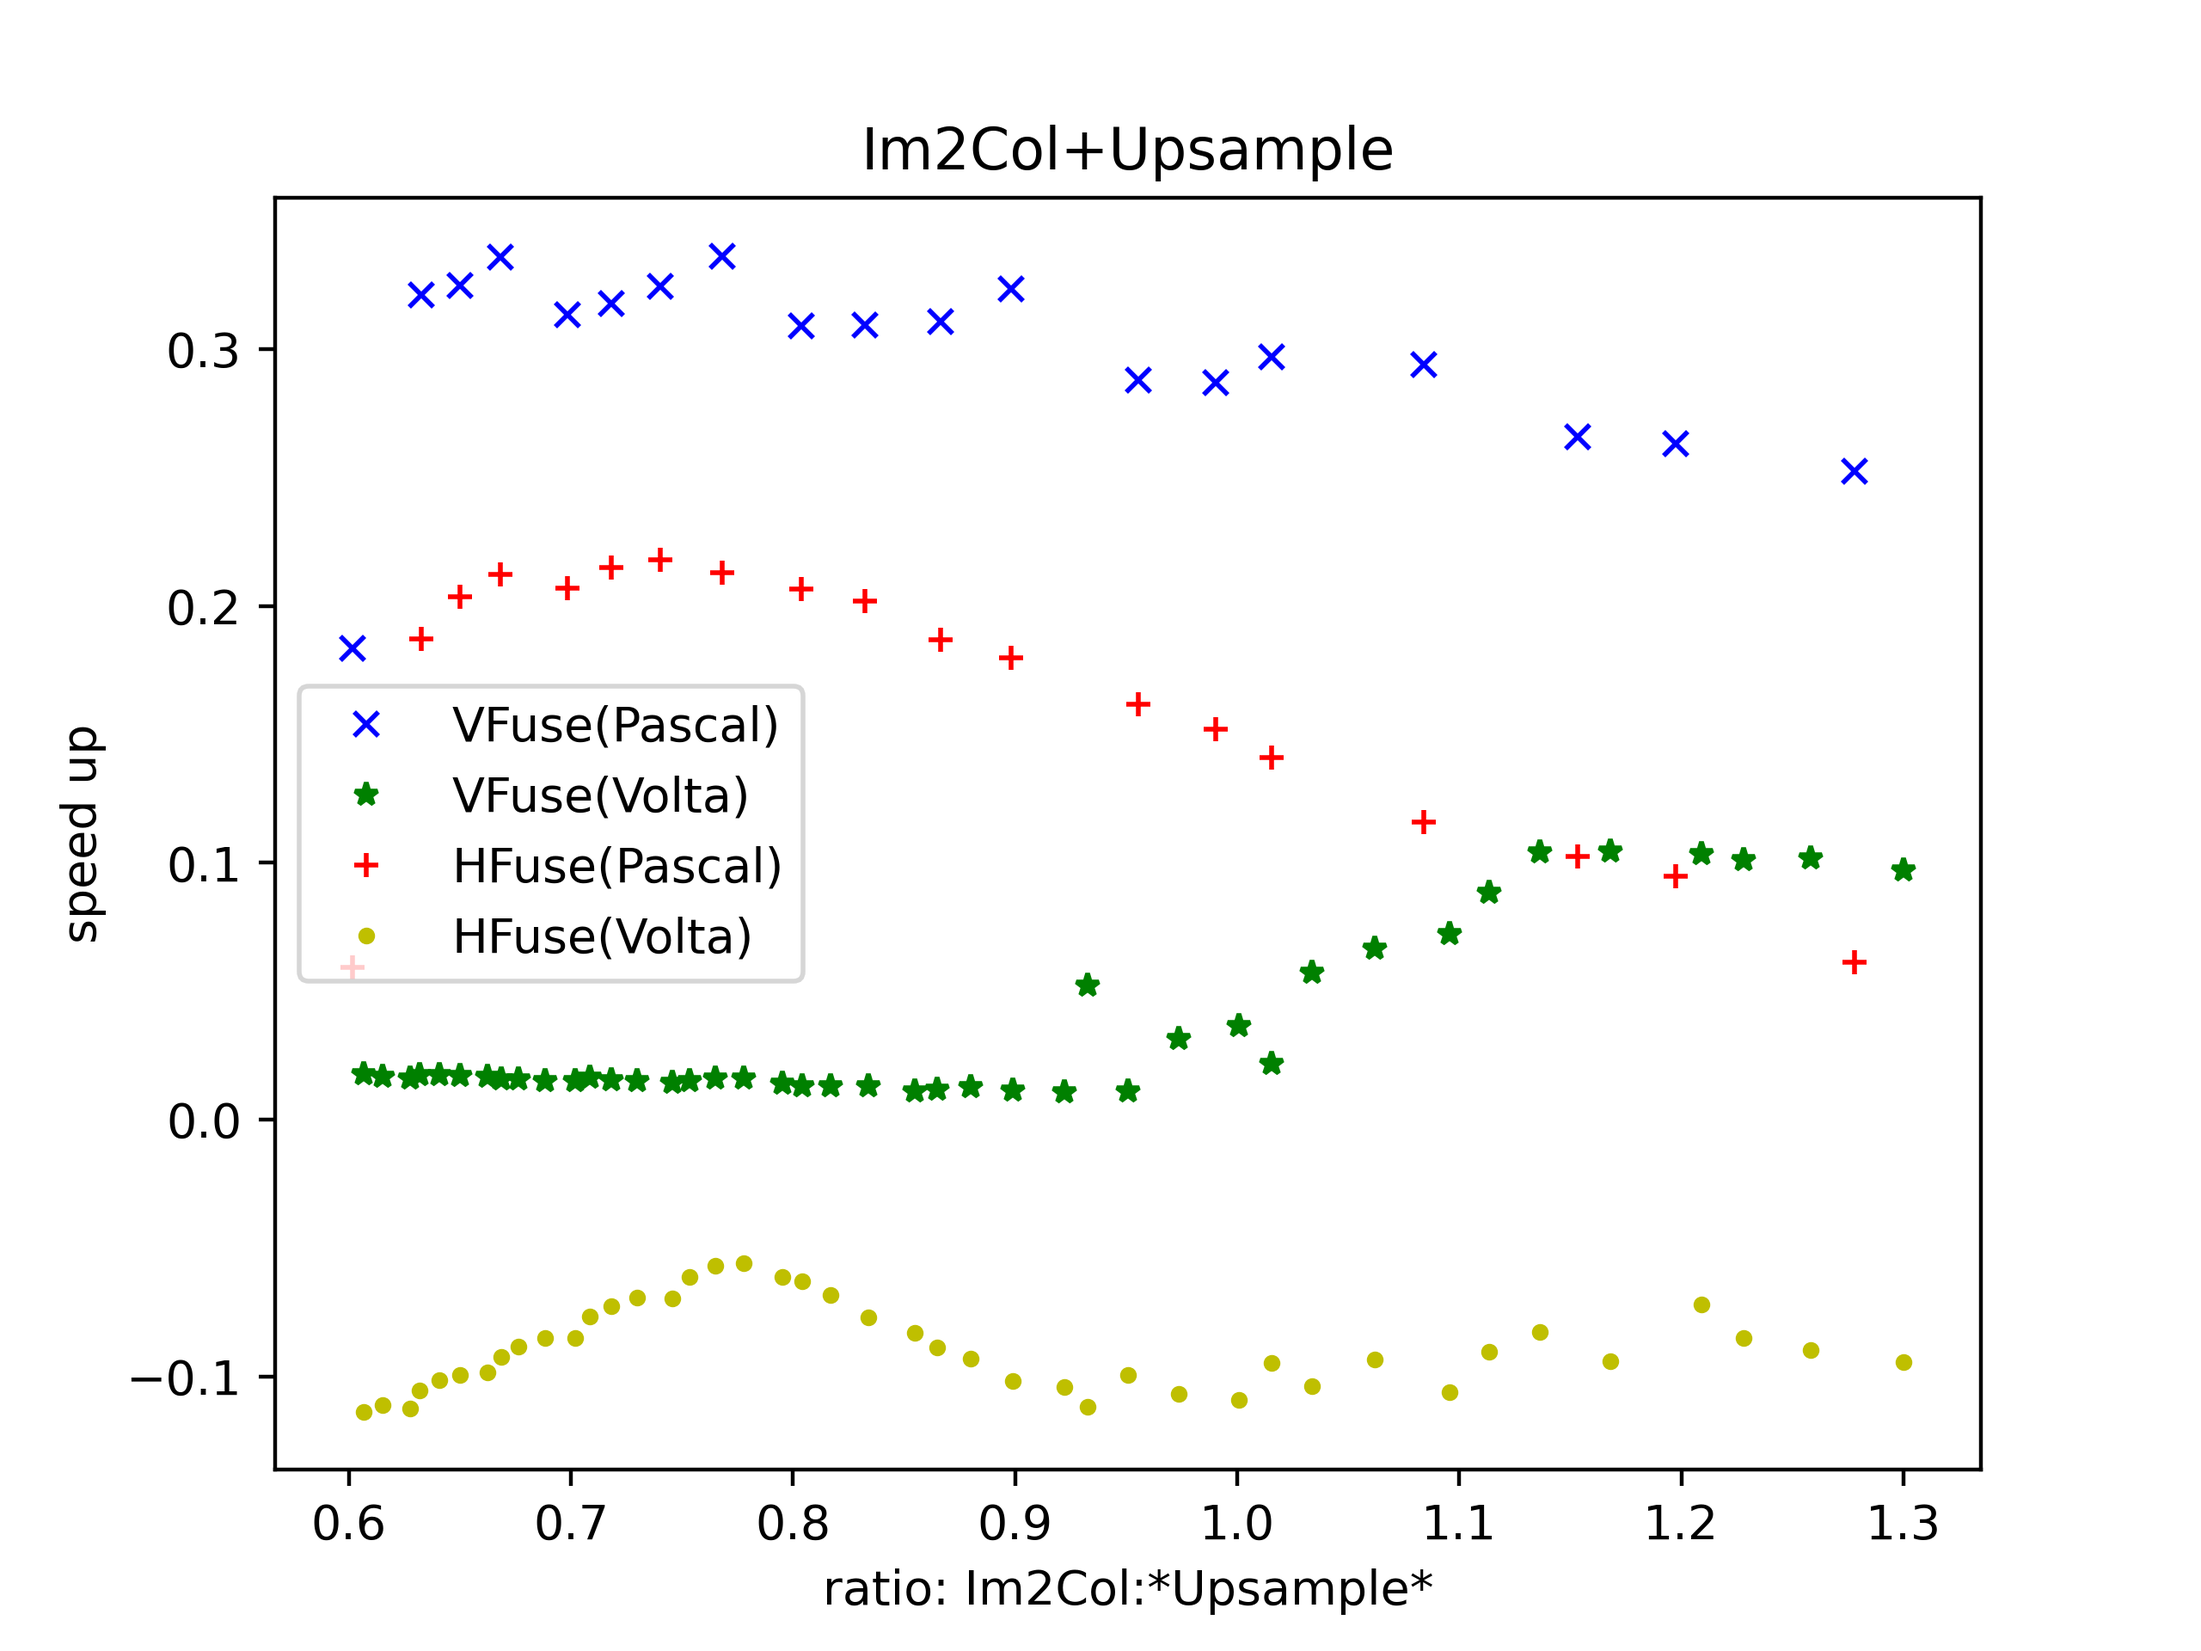
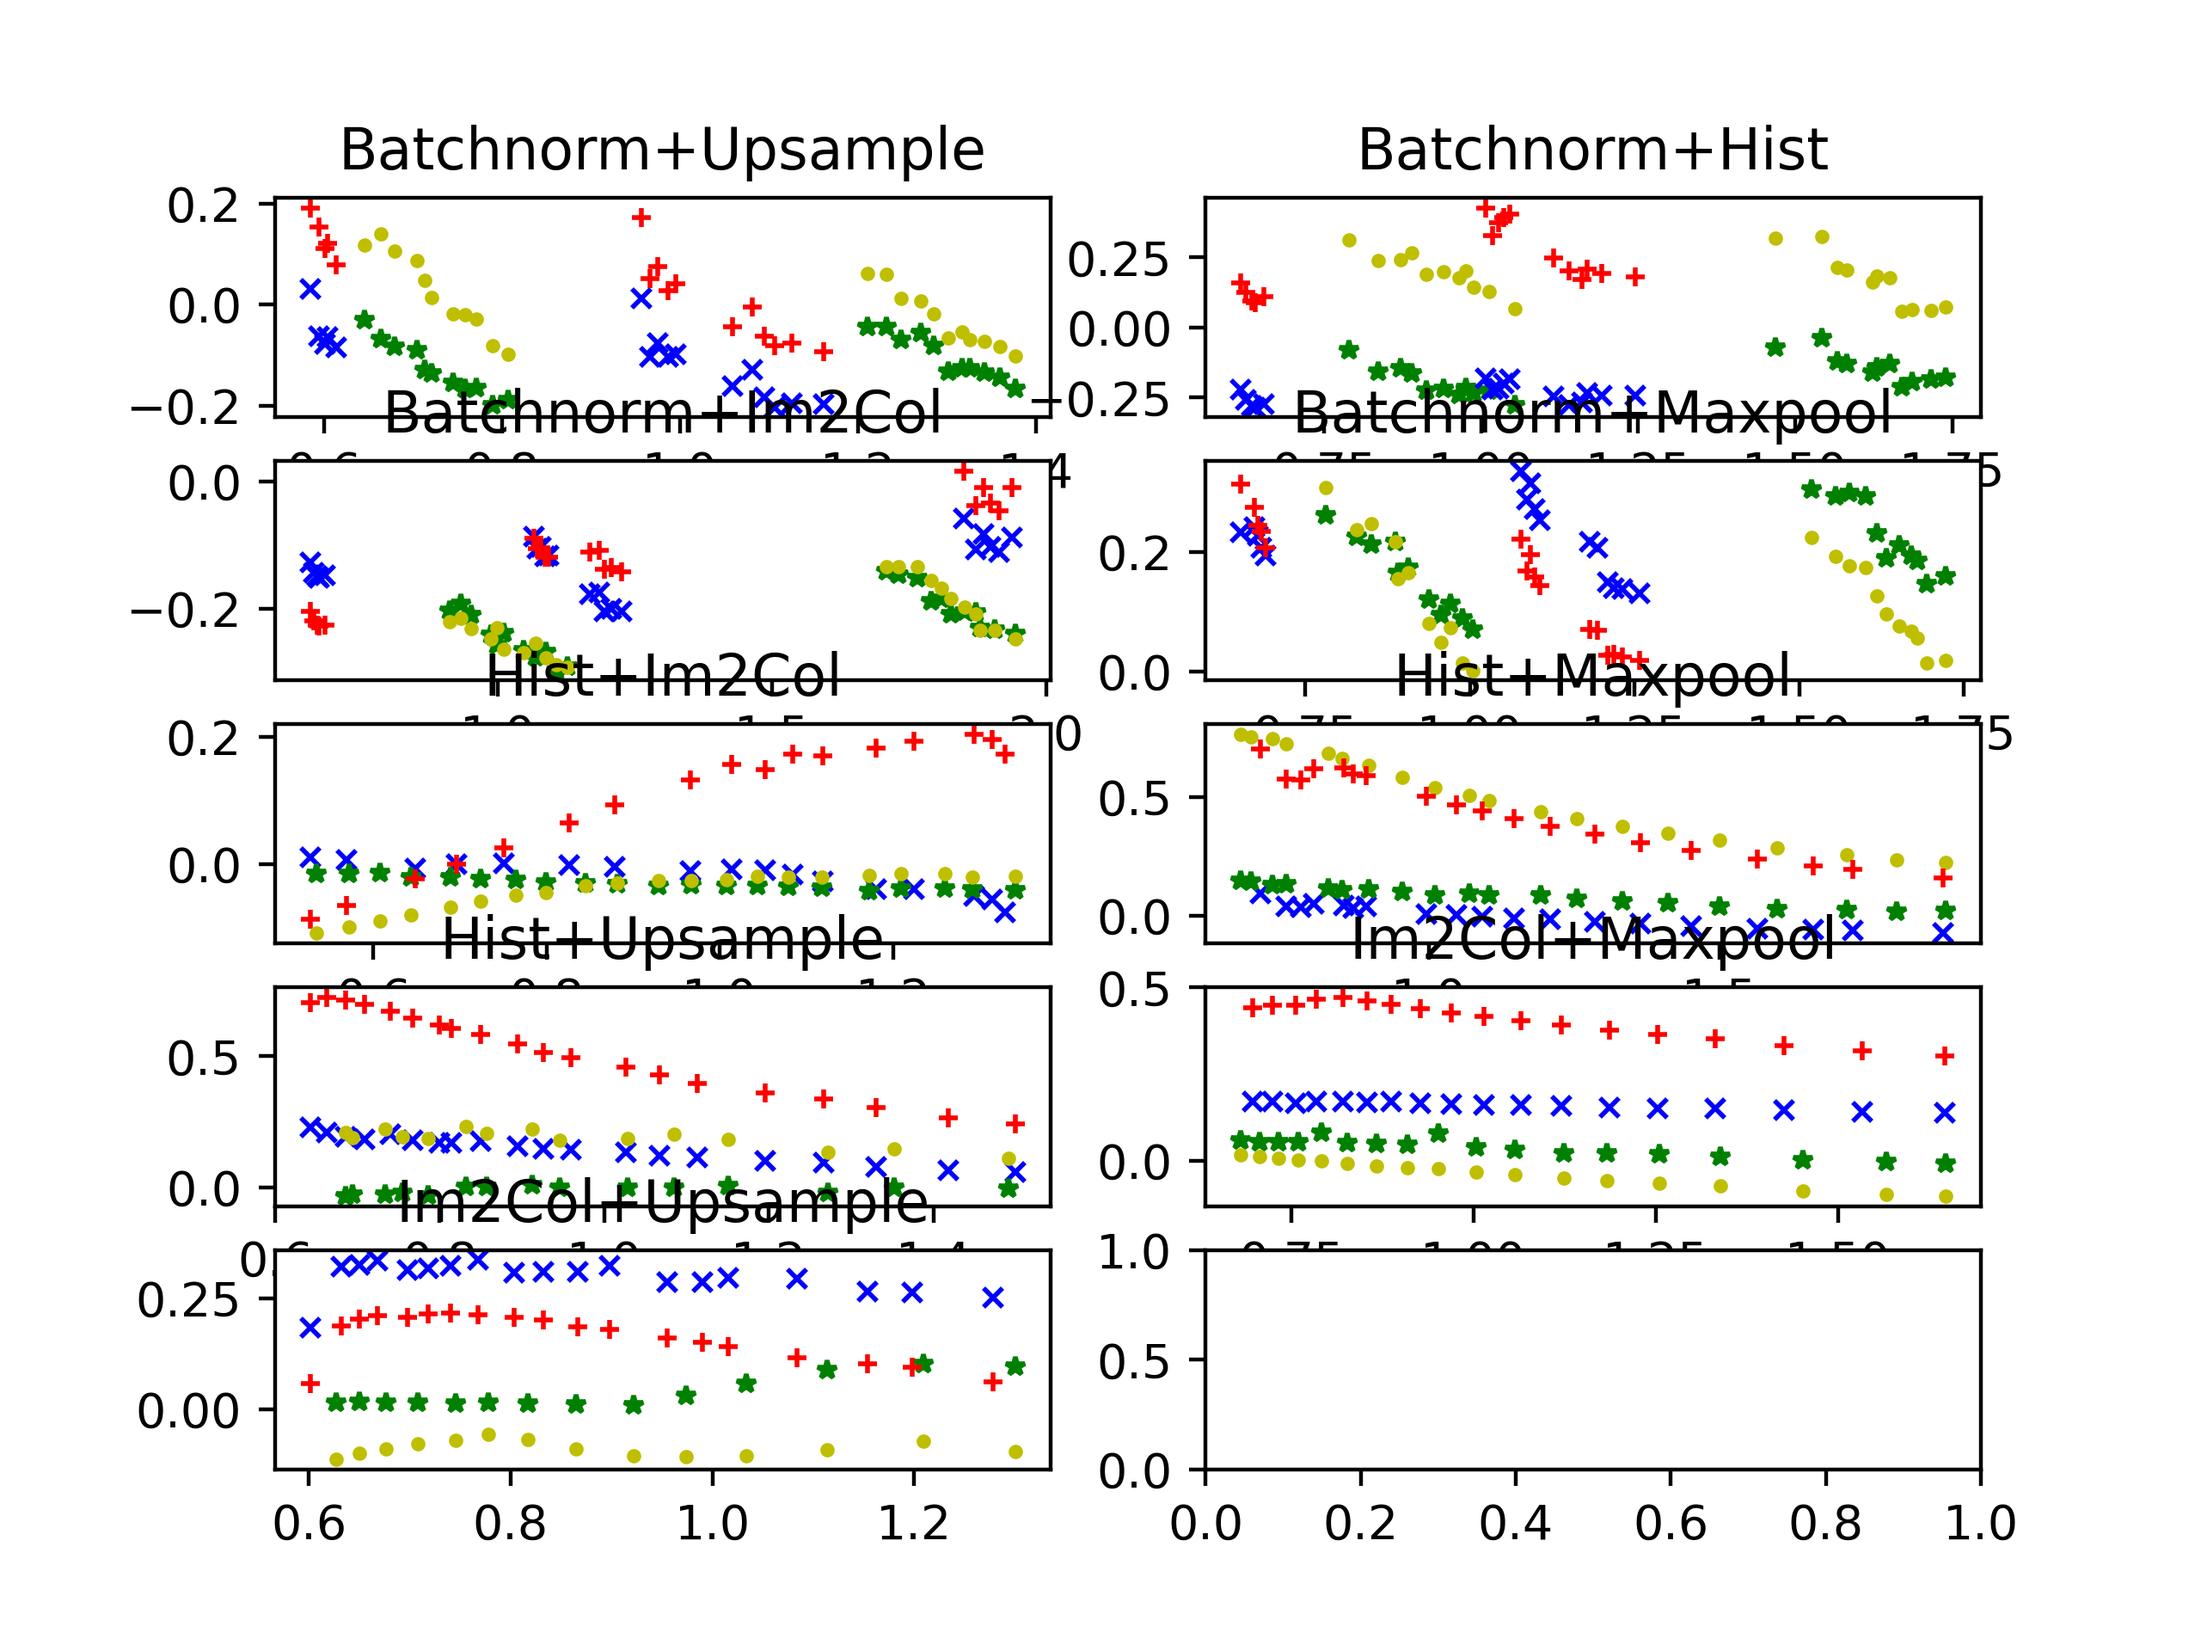
update.

diff --git a/scripts/analyze_nvprof.py b/scripts/analyze_nvprof.py
@@ -3,6 +3,7 @@ import sys
 import json
 import matplotlib.pyplot as plt
 import numpy as np
+from matplotlib import gridspec
 
 order = [
     "sha256d_gpu_hash_shared(",
@@ -272,6 +273,18 @@ volta_selection = {
     "Im2Col+Upsample": ["HF", "VF"],
     "Maxpool+Upsample": ["LB+HF", "VF"]
 }
+order = [
+    "Batchnorm+Upsample",
+    "Batchnorm+Hist",
+    "Batchnorm+Im2Col",
+    "Batchnorm+Maxpool",
+    "Hist+Im2Col",
+    "Hist+Maxpool",
+    "Hist+Upsample",
+    "Im2Col+Maxpool",
+    "Im2Col+Upsample",
+    "Maxpool+Upsample",
+]
 
 plot_shape = {
     "VFuse": {
@@ -285,10 +298,14 @@ plot_shape = {
     },
 }
 # r2 = {}
-analyze_execution_time("./data-new/ml-pascal-chart-1.json", r1, r1_s, ["Batchnorm+Im2Col"])
-analyze_execution_time("./data-new/ml-pascal-chart-2.json", r1, r1_s, [])
-analyze_execution_time("./data-new/ml-volta-chart-1.json", v1, v1_s, ['Im2Col+Upsample'])
-analyze_execution_time("./data-new/ml-volta-chart-2.json", v1, v1_s, [])
+# analyze_execution_time("./data-new/ml-pascal-chart-1.json", r1, r1_s, ["Batchnorm+Im2Col"])
+# analyze_execution_time("./data-new/ml-pascal-chart-2.json", r1, r1_s, [])
+r1_s = json.load(open("./data-new/ml-pascal-chart.json"))
+# json.dump(r1_s, open("./data-new/ml-pascal-chart.json", 'w'))
+# analyze_execution_time("./data-new/ml-volta-chart-1.json", v1, v1_s, ['Im2Col+Upsample'])
+# analyze_execution_time("./data-new/ml-volta-chart-2.json", v1, v1_s, [])
+# json.dump(v1_s, open("./data-new/ml-volta-chart.json", 'w'))
+v1_s = json.load(open("./data-new/ml-volta-chart.json"))
 # del r1['']
 # del r1_s['']
 #  r2 = analyze_execution_time("./data-new/ml-pascal.json")
@@ -315,11 +332,23 @@ print(found_tags)
 # print(fr)
 
 def build_graph(result, selection, result_volta, selection_volta):
+    min_length = 99999999999999999999999
+    for k in order:
+        min_length = min(len(result[k]['RA']), min_length)
+        min_length = min(len(result_volta[k]['RA']), min_length)
+    min_length /= 5
+
     def get_average(data):
         data = np.split(np.array(data), ITERS)
         return np.asarray(np.matrix(data).mean(0))[0]
+    gs = gridspec.GridSpec(3, 1, height_ratios=[5, 2, 1])
+    fig, axs = plt.subplots(3, 4, figsize=(15,10))
+    idx = 0
 
-    for k, v in result.items():
+    for k in order:
+        if idx == 8:
+            idx += 1
+        v = result[k]
         print(k)
         if "+" not in k:
             continue
@@ -333,7 +362,7 @@ def build_graph(result, selection, result_volta, selection_volta):
         range_max = min(v_max, p_max)
         # range_min = -9999
         # range_max = 9999
-        plt.figure()
+        # plt.figure()
 
         vst = get_average(v['ST'])
         volta_st = get_average(result_volta[k]['ST'])
@@ -359,15 +388,36 @@ def build_graph(result, selection, result_volta, selection_volta):
                 range_arr = (sorted_arr1 <= range_max) & (sorted_arr1 >= range_min)
                 # lab = tag
                 # sorted_arr2 = arr2[arr1inds[::-1]]
-                plt.plot(sorted_arr1[range_arr], a[range_arr], fmt, label=lab, markersize=5)
+                if idx == 0:
+                    axs[idx // 4, idx % 4].plot(sorted_arr1[range_arr][::int(len(a)//min_length)], a[range_arr][::int(len(a)//min_length)], fmt, label=lab, markersize=5)
+                else:
+                    axs[idx // 4, idx % 4].plot(sorted_arr1[range_arr][::int(len(a)//min_length)], a[range_arr][::int(len(a)//min_length)], fmt, markersize=5)
             check(v, selection, vst, vra, "Pascal")
             check(result_volta[k], selection_volta, volta_st, volta_ra, "Volta")
-        plt.legend()
-        plt.xlabel("ratio: " + ":".join(ks))
-        plt.ylabel("speed up")
-        plt.title(k)
-        plt.savefig(k+'.png', quality=100, figsize=(1280, 960), dpi=400)
+        # plt.legend()
+        axs[idx // 4, idx % 4].set_title(k)
         # plt.show()
+        idx += 1
+    # fig.
+    # fig.show()
+    # fig.legend(loc=8, ncol=4)
+    fig.legend(ncol=4, loc='lower center', bbox_to_anchor=(0.43, 0.010))
+    # fig.tight_layout()
+    for i in range(11):
+        if i == 8:
+            continue
+        ax = axs[i // 4, i % 4]
+        if i % 4 == 0:
+            ax.set(ylabel='Speed Up')
+        if int(i // 4) == 2:
+            print(i)
+            ax.set(xlabel='Ratio')
+    axs[2, 3].set_visible(False)
+    axs[2, 0].set_visible(False)
+    # set_visible
+    fig.align_ylabels(axs)
+    plt.savefig('fused.png', quality=100, dpi=400, bbox_inches='tight', pad_inches=0)
+    # plt.show()
 
 def generate_table_1(result):
     s = " "
